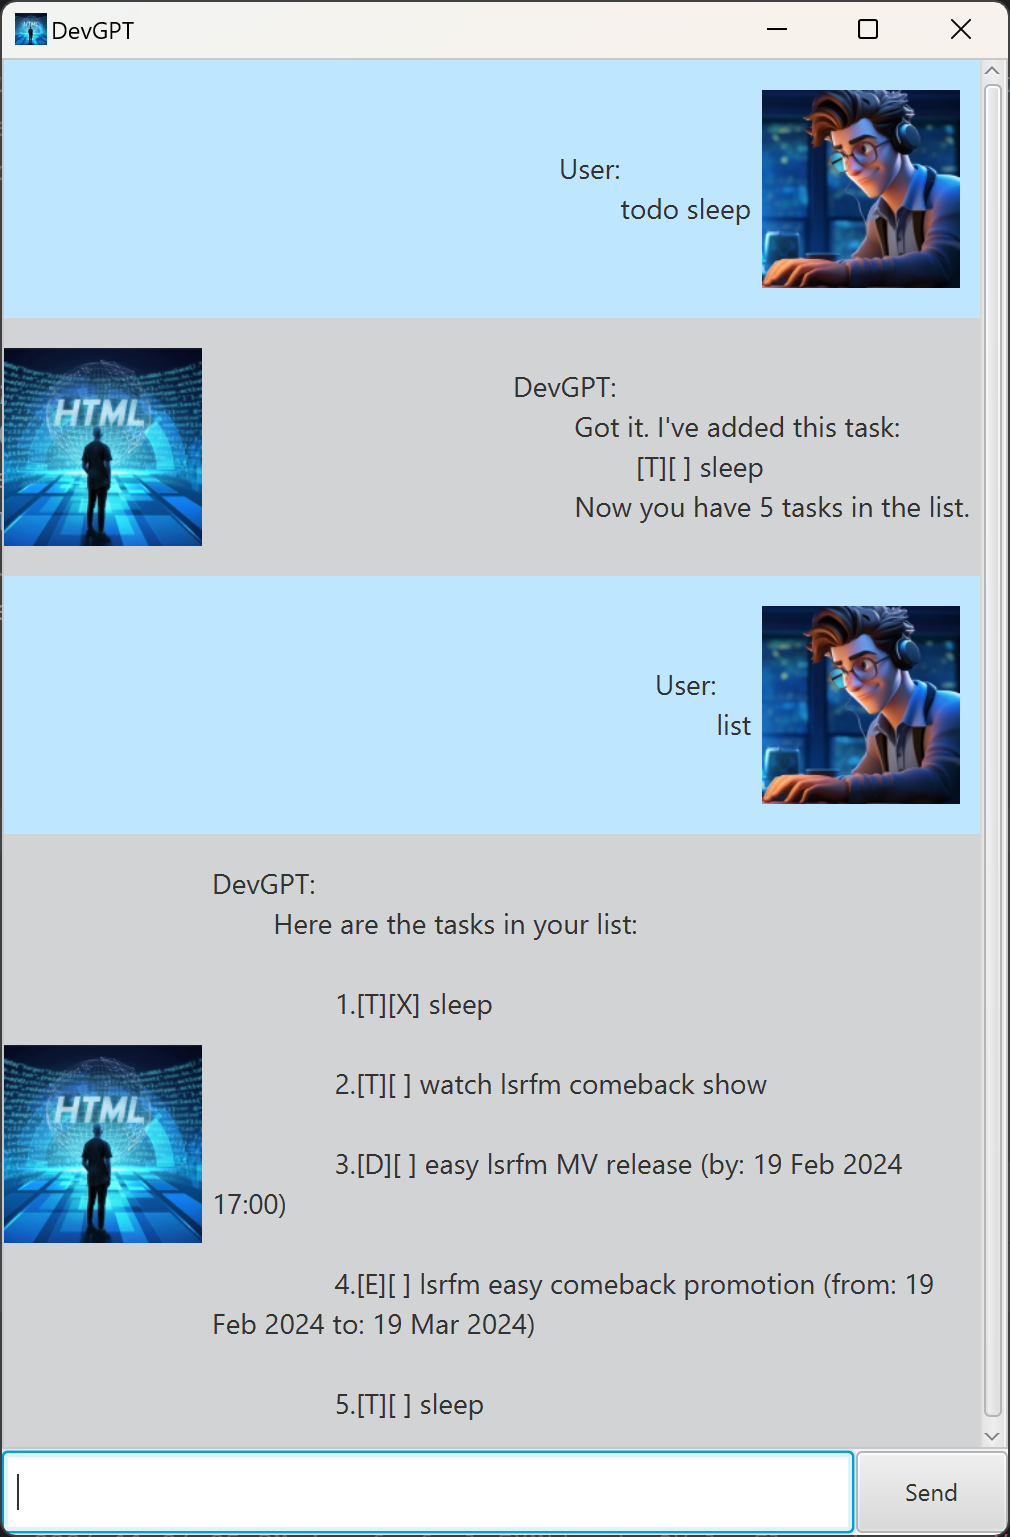
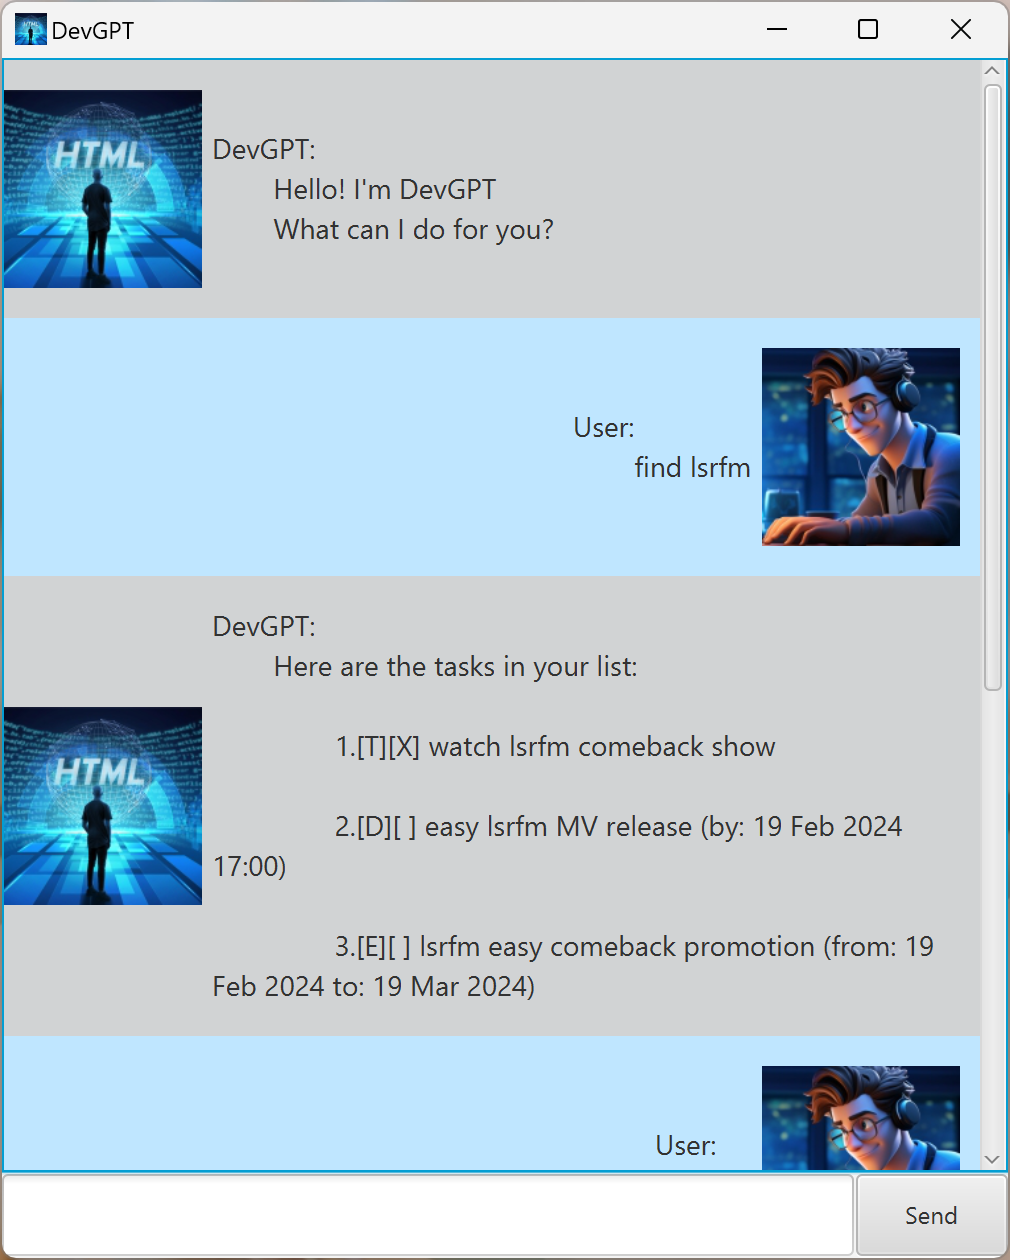
Fix welcome message on chatbot run
Commit contains cosmetic fix for dialog positioning.

diff --git a/src/main/java/duke/DialogBox.java b/src/main/java/duke/DialogBox.java
@@ -8,7 +8,9 @@ import javafx.collections.ObservableList;
 import javafx.fxml.FXML;
 import javafx.fxml.FXMLLoader;
 import javafx.geometry.Insets;
+import javafx.geometry.Pos;
 import javafx.scene.Node;
+import javafx.scene.control.ContentDisplay;
 import javafx.scene.control.Label;
 import javafx.scene.image.Image;
 import javafx.scene.image.ImageView;
@@ -34,7 +36,7 @@ public class DialogBox extends HBox {
      * Initializes a DialogBox object with the given text and image.
      *
      * @param text Text to be displayed in the dialog box.
-     * @param img Image to be displayed in the dialog box.
+     * @param img  Image to be displayed in the dialog box.
      */
     private DialogBox(String text, Image img) {
         try {
@@ -58,6 +60,8 @@ public class DialogBox extends HBox {
         Collections.reverse(tmp);
         getChildren().setAll(tmp);
         setBackground(new Background(new BackgroundFill(Paint.valueOf("#D1D3D4"), CornerRadii.EMPTY, Insets.EMPTY)));
+        dialog.setAlignment(Pos.CENTER_LEFT);
+        dialog.setContentDisplay(ContentDisplay.LEFT);
     }
 
     public static DialogBox getUserDialog(String text, Image img) {

diff --git a/src/main/java/duke/MainWindow.java b/src/main/java/duke/MainWindow.java
@@ -40,9 +40,15 @@ public class MainWindow extends AnchorPane {
     public void initialize(Duke duke, Ui ui) {
         assert duke != null : "Duke object should not be null";
         assert ui != null : "Ui object should not be null";
+        botIntro(ui);
         this.duke = duke;
-        DialogBox.getUserDialog(ui.showWelcome(), dukeImage);
         scrollPane.vvalueProperty().bind(dialogContainer.heightProperty());
+    }
+    @FXML
+    private void botIntro(Ui ui) {
+        dialogContainer.getChildren().addAll(
+            DialogBox.getDukeDialog(ui.showWelcome(), dukeImage)
+        );
     }
 
     /**
